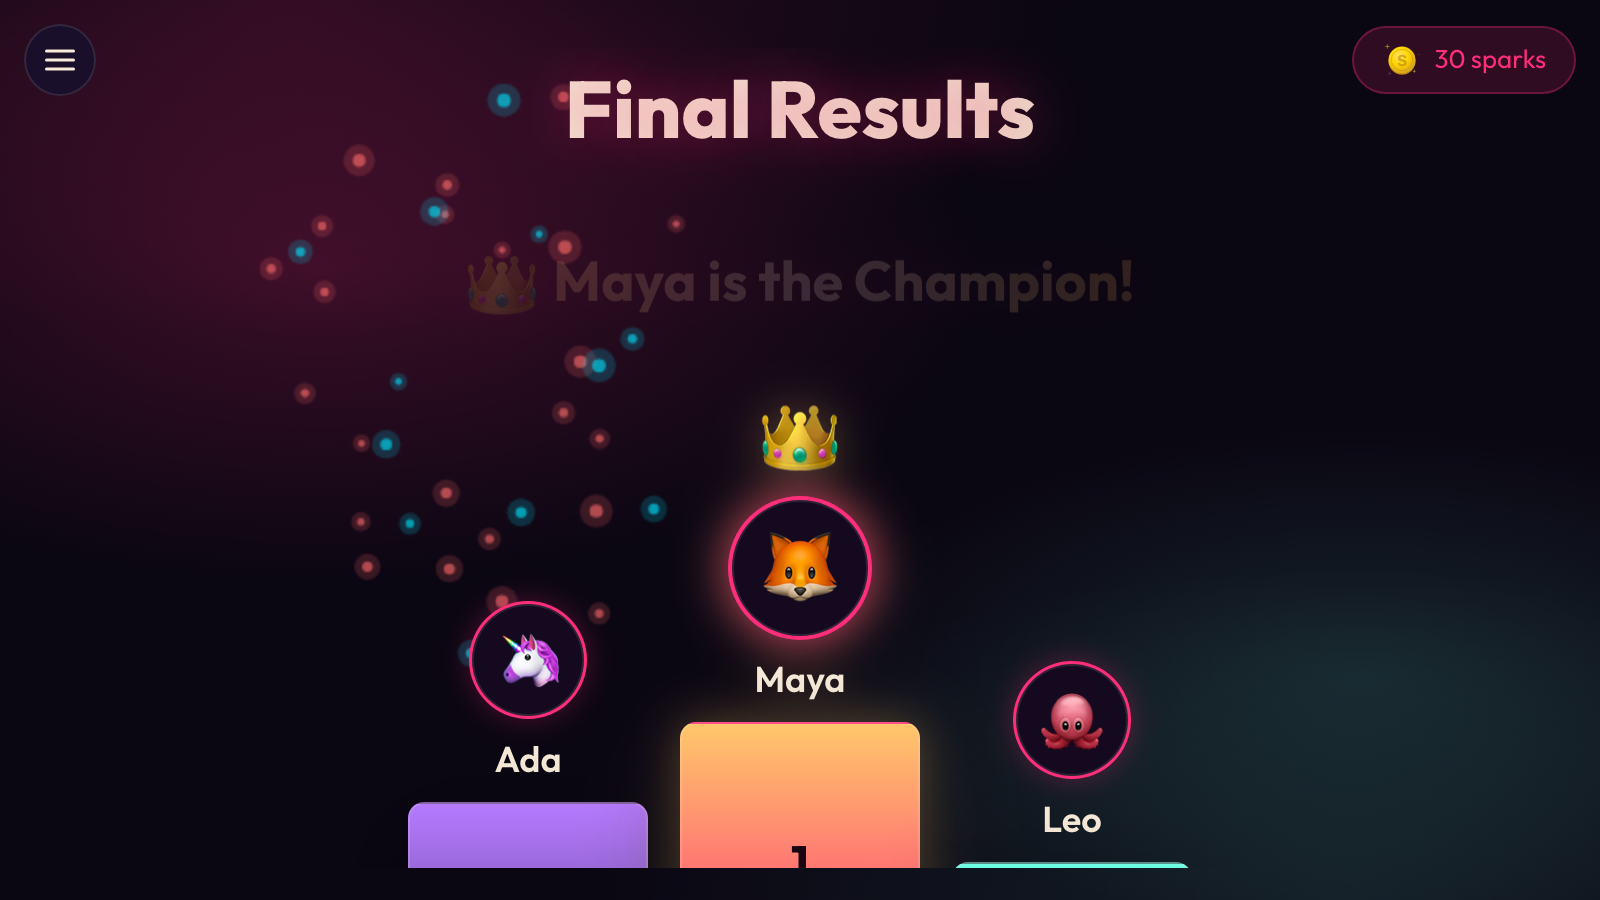
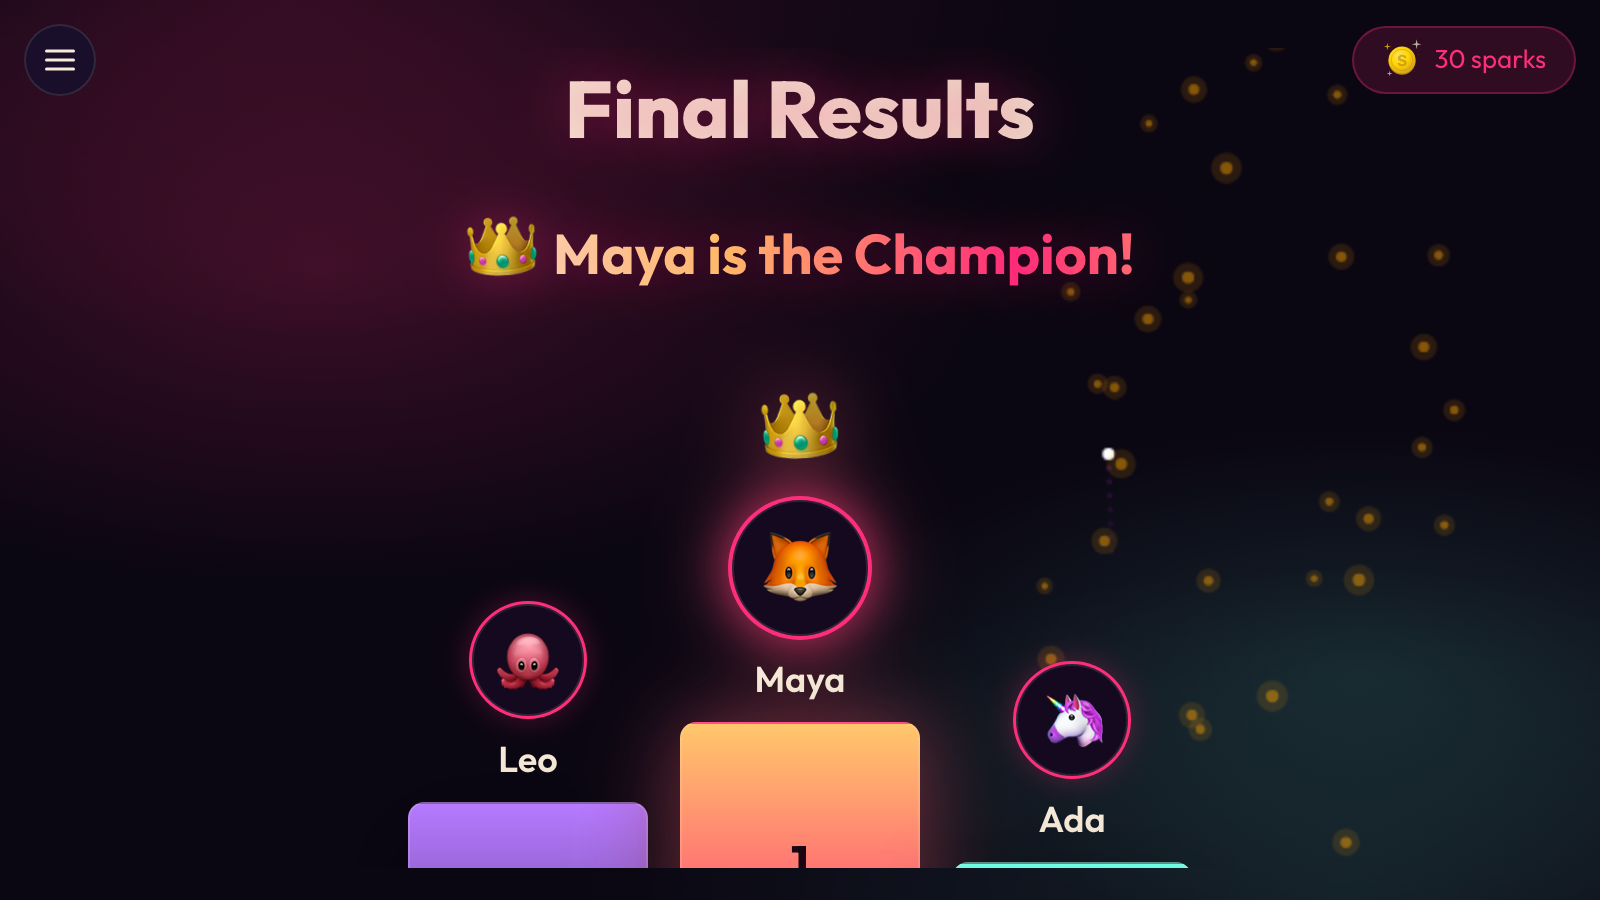
Add podium screenshot; reorder gameplay set to game flow
Captured the real "Final Results" champion podium by fixing the throwaway
driver's waitFor to consume matched messages (stale Q1 events were tripping Q2's
waits — a test-script bug, not an app bug; the SpectatorPage correctly waits for
PODIUM on the final question). Set is now question → answer-reveal → leaderboard
→ podium.

diff --git a/marketing/STORE_ASSETS.md b/marketing/STORE_ASSETS.md
@@ -62,8 +62,8 @@ represent the native apps.
 
 ## Captured "games in action" set (`marketing/gameplay/`, 1600×900 landscape "TV"/spectator)
 - `01-question.png` — live quiz question with A/B/C/D options
-- `02-leaderboard.png` — multiplayer standings with scores (Maya 973 / Leo 973 / Ada 0)
-- `03-answer-reveal.png` — correct answer highlighted (instant feedback)
+- `02-answer-reveal.png` — correct answer highlighted (instant feedback)
+- `03-leaderboard.png` — multiplayer standings with scores (Maya 973 / Leo 973 / Ada 0)
 - `04-podium.png` — "Final Results" / champion podium with crown + confetti
 - Captured by driving a real quiz over WebSockets against gamma (host-agnostic — no URL shown). The
   SpectatorPage correctly waits for PODIUM on the final question (no app bug); the podium capture just
